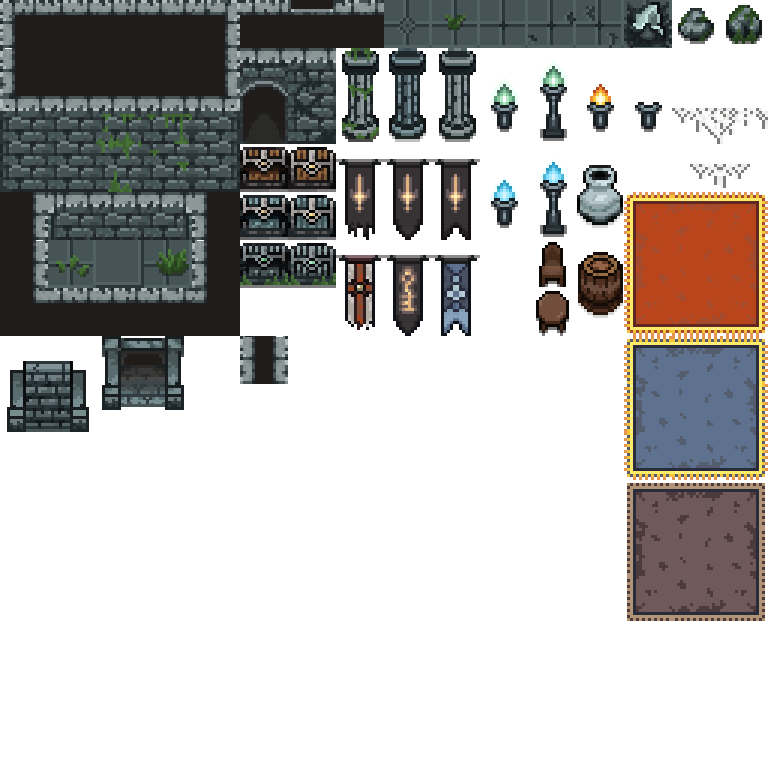
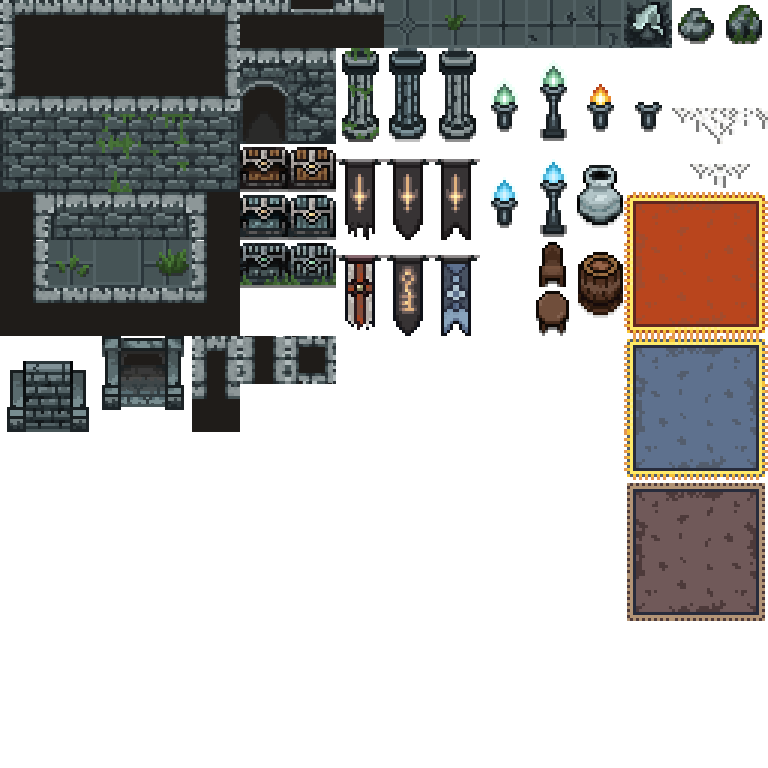
More corner cases

Changed region(s): [[0.25, 0.4375, 0.3125, 0.5625], [0.375, 0.4375, 0.4375, 0.5]]

diff --git a/src/dungeon/DungeonRendering.ts b/src/dungeon/DungeonRendering.ts
@@ -173,8 +173,20 @@ const drawCornerTile = (
       drawTile(ctx, ground, 0, 2, cellSize, x, y, state);
       break;
     }
+    case CornerType.BOTTOM_END: {
+      drawTile(ctx, ground, 2, 4, cellSize, x, y, state);
+      break;
+    }
+    case CornerType.TOP_END: {
+      drawTile(ctx, ground, 4, 7, cellSize, x, y, state);
+      break;
+    }
+    case CornerType.THREE_WAY_INTERSECTION_UP: {
+      drawTile(ctx, ground, 4, 8, cellSize, x, y, state);
+      break;
+    }
     default:
-      drawTile(ctx, ground, 0, 0, cellSize, x, y, state);
+      drawTile(ctx, ground, 15, 0, cellSize, x, y, state);
       break;
   }
 };
@@ -364,8 +376,8 @@ const renderTrapDoor = (
   const y = secret.position.y;
   ctx.drawImage(
     ground,
-    3 * 48,
-    0,
+    48 * 6,
+    48 * 7,
     48,
     48,
     x * cellSize,
@@ -427,6 +439,68 @@ const renderGridLines = (
   ctx.stroke();
 };
 
+const renderClosedHiddenDoor = (
+  door: Door,
+  ctx: CanvasRenderingContext2D,
+  ground: CanvasImageSource,
+  cellSize: number,
+  state: GameState,
+) => {
+  switch (door.side) {
+    case Side.RIGHT: {
+      drawTile(ctx, ground, 4, 5, cellSize, door.x + 1, door.y, state);
+      drawTile(ctx, ground, 4, 5, cellSize, door.x + 1, door.y - 1, state);
+      drawTile(ctx, ground, 4, 5, cellSize, door.x + 1, door.y + 1, state);
+      break;
+    }
+    case Side.LEFT: {
+      drawTile(ctx, ground, 0, 5, cellSize, door.x - 1, door.y, state);
+      drawTile(ctx, ground, 0, 5, cellSize, door.x - 1, door.y - 1, state);
+      drawTile(ctx, ground, 0, 5, cellSize, door.x - 1, door.y + 1, state);
+      break;
+    }
+    case Side.UP: {
+      drawTile(ctx, ground, 2, 4, cellSize, door.x, door.y - 1, state);
+      drawTile(ctx, ground, 2, 4, cellSize, door.x + 1, door.y - 1, state);
+      drawTile(ctx, ground, 2, 4, cellSize, door.x - 1, door.y - 1, state);
+      break;
+    }
+    case Side.DOWN: {
+      drawTile(ctx, ground, 2, 6, cellSize, door.x, door.y + 1, state);
+      drawTile(ctx, ground, 2, 6, cellSize, door.x + 1, door.y + 1, state);
+      drawTile(ctx, ground, 2, 6, cellSize, door.x - 1, door.y + 1, state);
+      break;
+    }
+  }
+};
+
+const renderClosedDoor = (
+  door: Door,
+  ctx: CanvasRenderingContext2D,
+  ground: CanvasImageSource,
+  cellSize: number,
+  state: GameState,
+) => {
+  switch (door.side) {
+    case Side.RIGHT: {
+      drawTile(ctx, ground, 4, 5, cellSize, door.x + 1, door.y, state);
+      break;
+    }
+    case Side.LEFT: {
+      drawTile(ctx, ground, 0, 5, cellSize, door.x - 1, door.y, state);
+      break;
+    }
+    case Side.UP: {
+      drawTile(ctx, ground, 2, 4, cellSize, door.x, door.y - 1, state);
+      break;
+    }
+    case Side.DOWN: {
+      drawTile(ctx, ground, 2, 6, cellSize, door.x, door.y + 1, state);
+      break;
+    }
+  }
+};
+
 const renderDoor = (
   ctx: CanvasRenderingContext2D,
   ground: CanvasImageSource,
@@ -437,23 +511,10 @@ const renderDoor = (
 ) => {
   const cell = state.dungeon.layout.grid[door.y][door.x];
   if (door && !door.open) {
-    switch (door.side) {
-      case Side.RIGHT: {
-        drawTile(ctx, ground, 4, 5, cellSize, door.x + 1, door.y, state);
-        break;
-      }
-      case Side.LEFT: {
-        drawTile(ctx, ground, 0, 5, cellSize, door.x - 1, door.y, state);
-        break;
-      }
-      case Side.UP: {
-        drawTile(ctx, ground, 2, 4, cellSize, door.x, door.y - 1, state);
-        break;
-      }
-      case Side.DOWN: {
-        drawTile(ctx, ground, 2, 6, cellSize, door.x, door.y + 1, state);
-        break;
-      }
+    if (door.hidden) {
+      renderClosedHiddenDoor(door, ctx, ground, cellSize, state);
+    } else {
+      renderClosedDoor(door, ctx, ground, cellSize, state);
     }
   }
   if (door && !door.hidden && !door.open && !isEmpty(cell, state)) {

diff --git a/src/campaigns/dungeons/testingGrounds.ts b/src/campaigns/dungeons/testingGrounds.ts
@@ -56,7 +56,7 @@ export const testingGrounds: Dungeon = {
     { x: 1, y: 9 },
     { x: 1, y: 10 },
   ],
-  discoveredRooms: ['A', 'D'],
+  discoveredRooms: ['A', 'D', 'I'],
   layout: {
     corners: [
       { position: { x: 0, y: 0 }, type: CornerType.INNER_TOP_LEFT },
@@ -74,9 +74,25 @@ export const testingGrounds: Dungeon = {
       { position: { x: 4, y: 7 }, type: CornerType.LEFT_END },
       { position: { x: 6, y: 7 }, type: CornerType.RIGHT_END },
       { position: { x: 0, y: 11 }, type: CornerType.INNER_BOTTOM_LEFT },
-      { position: { x: 9, y: 11 }, type: CornerType.INNER_BOTTOM_RIGHT },
+      { position: { x: 1, y: 11 }, type: CornerType.OUTER_TOP_RIGHT },
+      { position: { x: 3, y: 11 }, type: CornerType.TOP_END },
+      {
+        position: { x: 9, y: 11 },
+        type: CornerType.BOTTOM_END,
+      },
+      { position: { x: 10, y: 11 }, type: CornerType.INNER_TOP_RIGHT },
+      { position: { x: 3, y: 12 }, type: CornerType.BOTTOM_END },
+      { position: { x: 3, y: 13 }, type: CornerType.INNER_BOTTOM_RIGHT },
+      { position: { x: 8, y: 13 }, type: CornerType.TOP_END },
       { position: { x: 1, y: 14 }, type: CornerType.INNER_BOTTOM_LEFT },
-      { position: { x: 3, y: 14 }, type: CornerType.INNER_BOTTOM_RIGHT },
+      {
+        position: { x: 8, y: 14 },
+        type: CornerType.THREE_WAY_INTERSECTION_UP,
+      },
+      {
+        position: { x: 10, y: 14 },
+        type: CornerType.INNER_BOTTOM_RIGHT,
+      },
     ],
     grid: [
       '###########',
@@ -90,10 +106,10 @@ export const testingGrounds: Dungeon = {
       '#AAAAAAAA#D',
       '#AAAAAAAA#D',
       '#AAAAAAAA#D',
-      '##G####### ',
-      ' #G#       ',
-      ' #G#       ',
-      ' ###       ',
+      '##G########',
+      ' #G#IIIIII#',
+      ' #GIIIII#I#',
+      ' ##########',
     ],
     pillars: [
       { x: 8, y: 3 },

diff --git a/src/types.ts b/src/types.ts
@@ -145,7 +145,8 @@ export enum CornerType {
   LEFT_END = 'LE',
   RIGHT_END = 'RE',
   FOUR_WAY_INTERSECTION = 'I',
-  THREE_WAY_INTERSECTION_UP = 'TU',
+  THREE_WAY_INTERSECTION_UP_CLOSED = 'TUC',
+  THREE_WAY_INTERSECTION_UP = 'TUO',
   THREE_WAY_INTERSECTION_DOWN = 'TD',
   THREE_WAY_INTERSECTION_LEFT = 'TL',
   THREE_WAY_INTERSECTION_RIGHT = 'TR',
